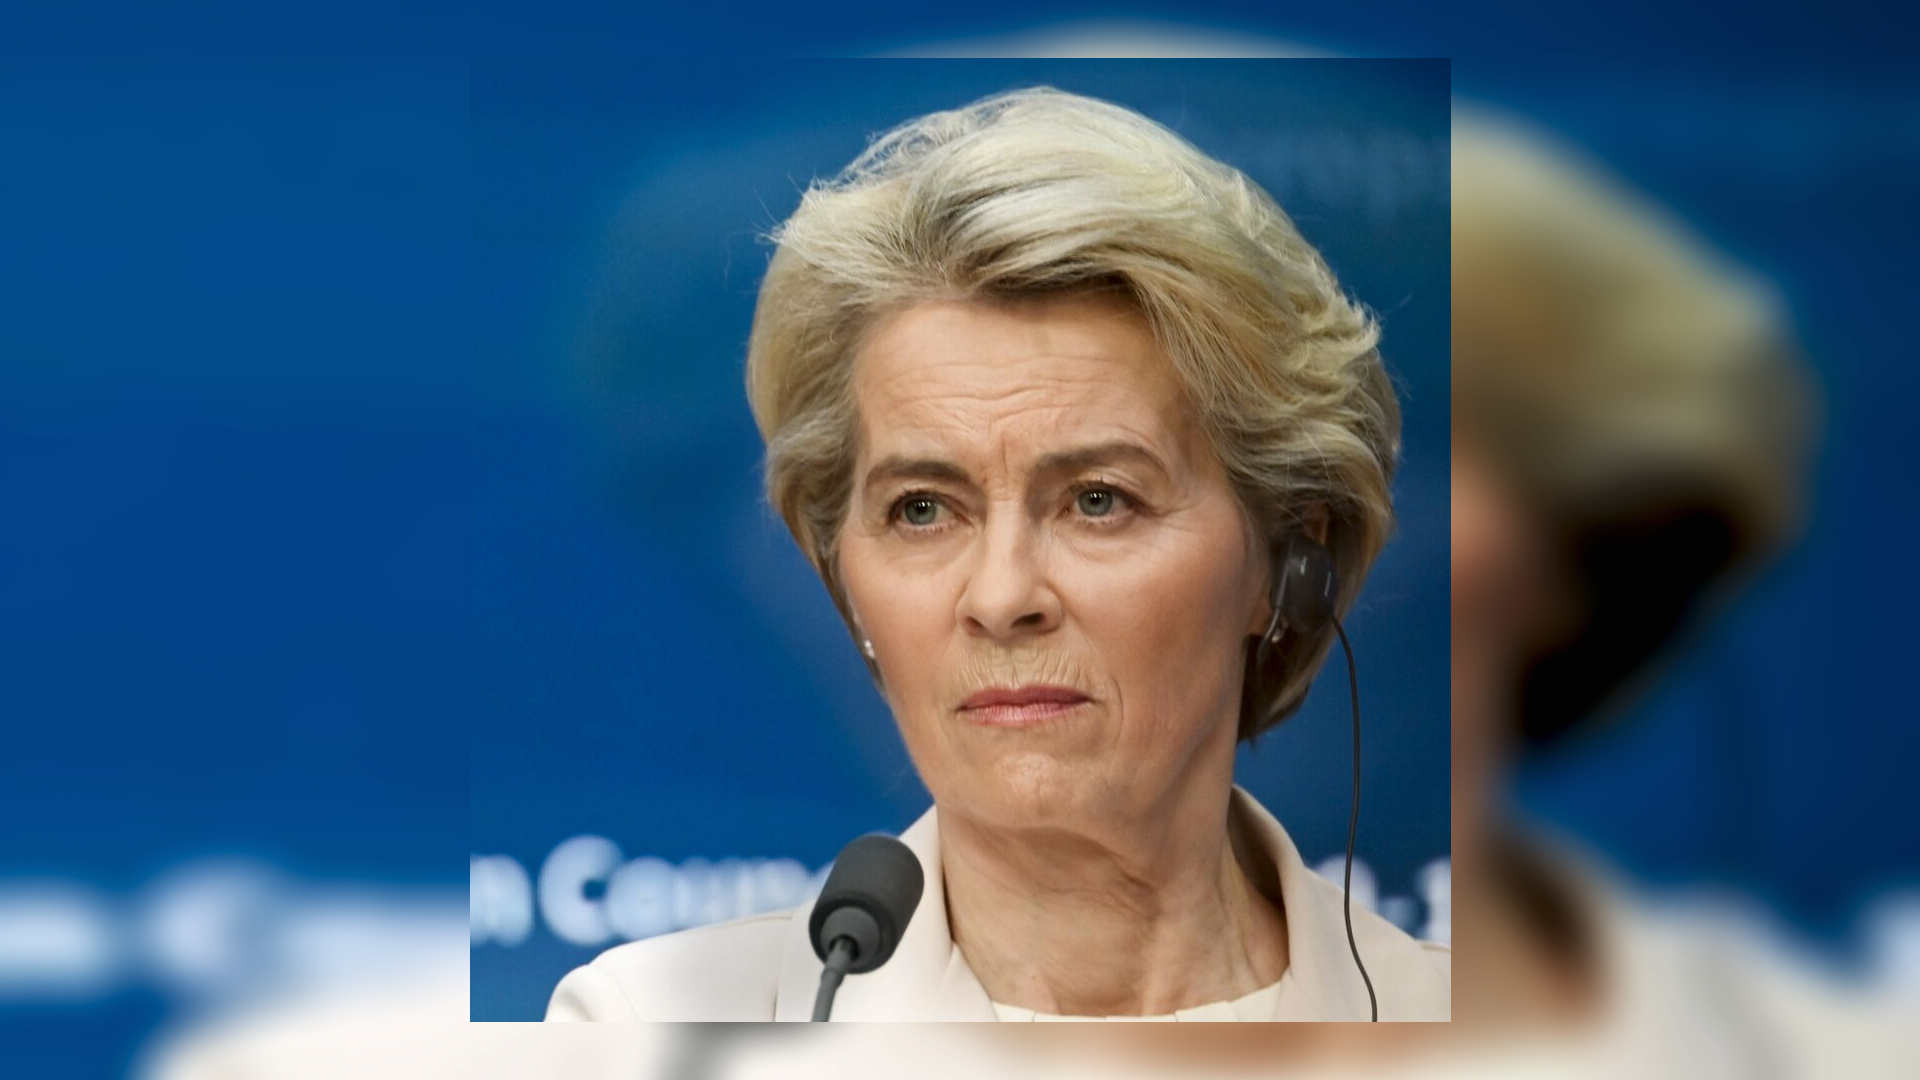
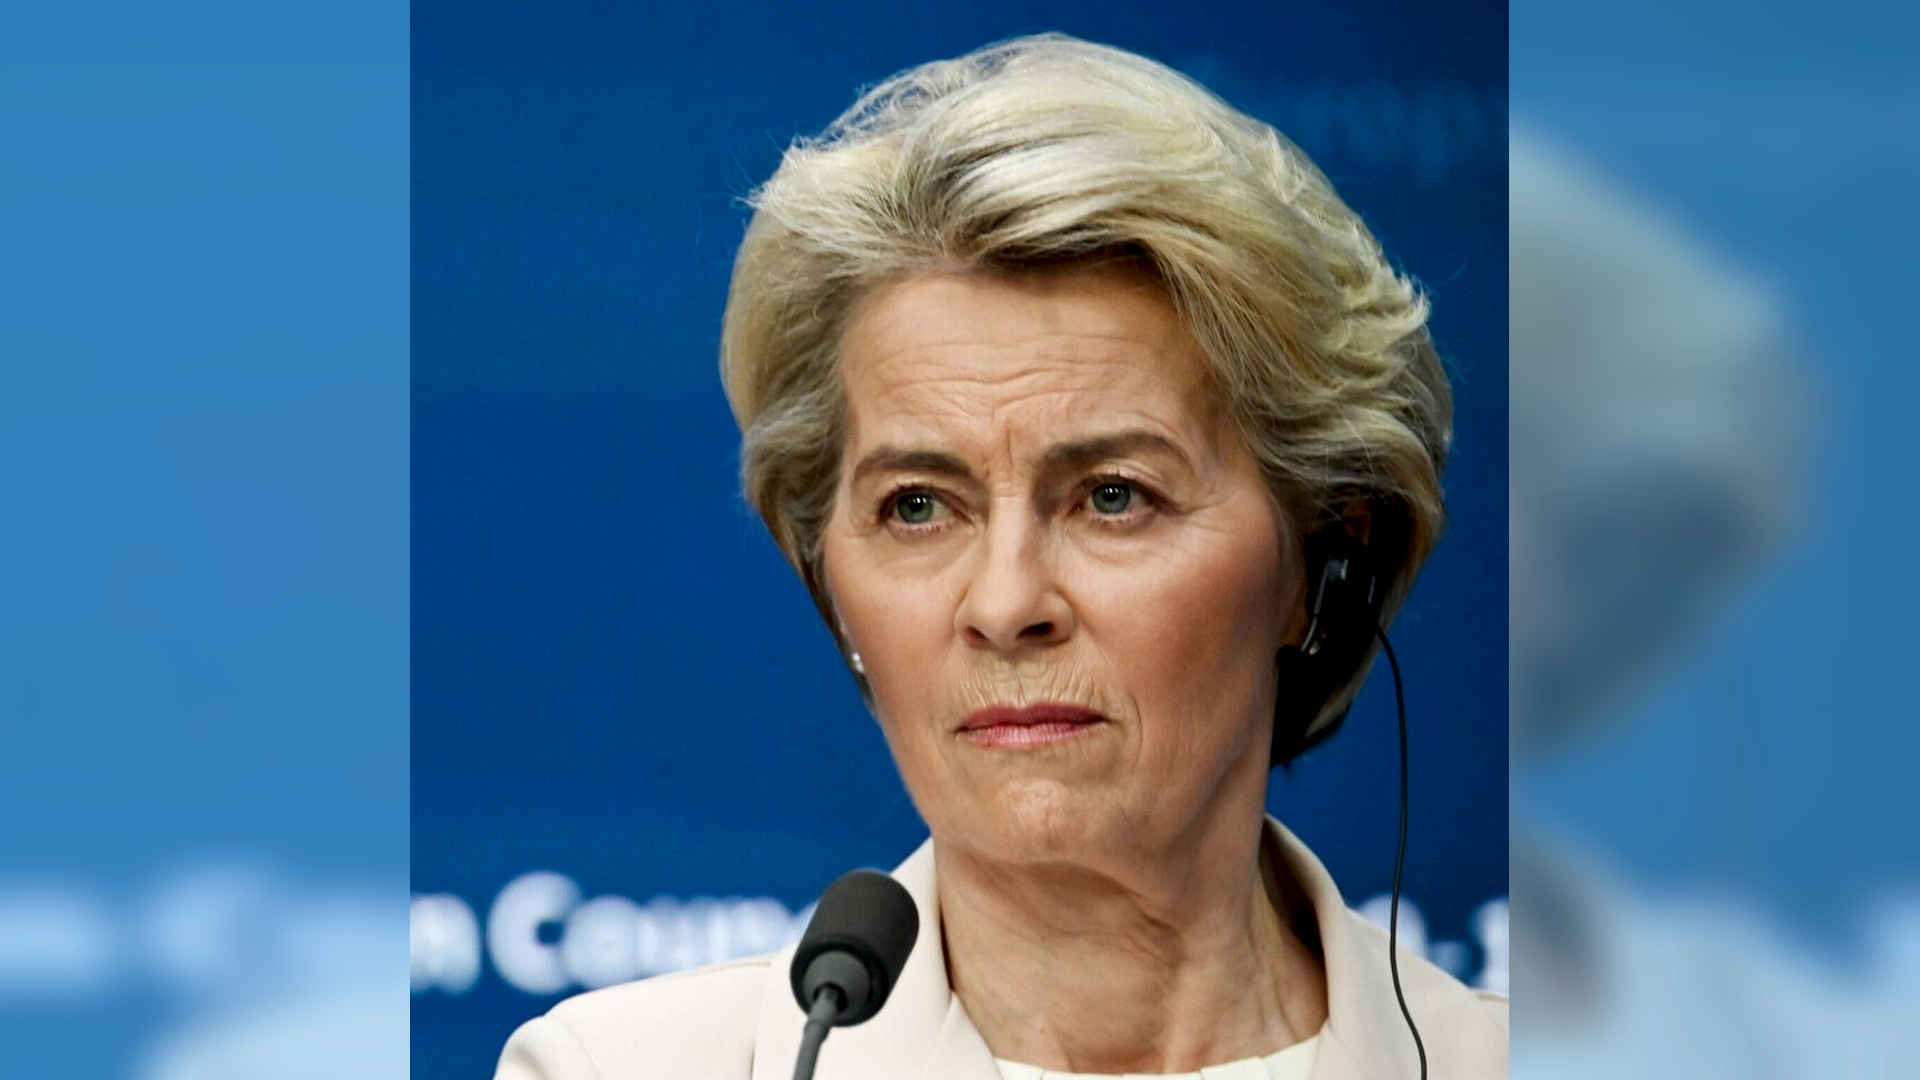
upd

diff --git a/src/services/imagePrcessing.js b/src/services/imagePrcessing.js
@@ -12,48 +12,22 @@ async function checkFileExists(filePath) {
     }
 }
 
-async function resizeImage(pathFile, outputFilePath, width, height) {
+export async function resizeImage(inputArrBufOrPath, outputFilePath, width = null, height = null) {
     try {
-        const inputImage = sharp(pathFile);
-        const inputImageBlur = sharp(await inputImage.toBuffer());
-        const resizeImageBlur = inputImageBlur.resize({
-            width, height, fit: 'fill'// fit: sharp.fit.cover, // Заполнение с обрезкой
-        });
+        let image = sharp(inputArrBufOrPath).toFormat('png');
 
-        const obj = await inputImage.metadata();
-        console.log(obj)
-        const {width: w, height: h} = obj
+        if (width) {
+            const resizeImageBlur = image.clone().resize({width, height, fit: 'fill'});
+            const imgBackBlur = await resizeImageBlur.blur(25).toBuffer();
 
-        const mask = await sharp({
-            create: {
-                width: w,
-                height: h,
-                channels: 4,
-                background: {r: 0, g: 0, b: 0, alpha: .8}
-            }
-        }).png().blur(80).toBuffer();
+            const foregroundImage = await image
+                .resize({width, height, fit: 'contain', background: {r: 128, g: 200, b: 255, alpha: 0.5}})
+                .toBuffer();
 
-
-        const imgBackBlur = await resizeImageBlur.blur(25).toBuffer();
-
-        // Создать основное изображение с учётом "contain"
-        // const foregroundImage = await inputImage
-        //     .resize({
-        //         width, height, fit: 'contain', background: {r: 128, g: 200, b: 255, alpha: 0.5}, // Прозрачный фон
-        //     })
-        //     .toBuffer();
-
-        const foregroundImage2 = await sharp(await inputImage.toBuffer())
-            .composite([{
-                input: mask,
-                blend: 'dest-in'
-            }])/*.toFile(outputFilePath)*/.toBuffer();
-
-
-        // Скомбинировать изображения
-        await sharp(imgBackBlur)
-            .composite([{input: foregroundImage2, gravity: 'center'}]).normalize().sharpen()
-            .toFile(outputFilePath);
+            image = await sharp(imgBackBlur)
+                .composite([{input: foregroundImage, gravity: 'center'}]).normalize().sharpen()
+        }
+        image.toFile(outputFilePath);
 
         console.log('Изображение успешно обработано и сохранено в', outputFilePath);
     } catch (error) {
@@ -61,23 +35,7 @@ async function resizeImage(pathFile, outputFilePath, width, height) {
     }
 }
 
-
-const toPng = async ({inputPath, outputPath, arrayBuffer}) => {
-    try {
-        arrayBuffer = inputPath ? await fsPromises.readFile(inputPath) : arrayBuffer;
-
-        const info = await sharp(arrayBuffer)
-            .toFormat('png') // Указываем формат вывода
-            .toFile(outputPath);
-
-        console.log('Конвертация завершена:', info);
-    } catch (err) {
-        console.error('Ошибка при конвертации:', err);
-        throw err;
-    }
-};
-
-// await resizeImage('img.png', 'out.png', 1920, 1080)
+await resizeImage('img.png', 'out.png', 1920, 1080)
 
 async function createVignetteOverlay(pathFile, outputFilePath, width, height) {
     // Размеры изображения (должны совпадать с исходным)
@@ -147,4 +105,4 @@ async function createVignetteOverlay(pathFile, outputFilePath, width, height) {
     }
 }
 
-await createVignetteOverlay('img.png', 'out.png', 1920, 1080)
+// await createVignetteOverlay('img.png', 'out.png', 1920, 1080)

diff --git a/src/parser.js b/src/parser.js
@@ -9,6 +9,7 @@ import sharp from "sharp";
 import {config} from "dotenv";
 import {chromium} from "playwright";
 import {saveVideo} from "playwright-video";
+import {resizeImage} from "./services/imagePrcessing.js";
 
 const {parsed: {IMG_COOKIE, IMG_XBROWS_VALID, IMG_XCLIENT}} = config();
 
@@ -146,18 +147,24 @@ export const getDocument = (html) => {
  * @param ext
  * @param max
  */
-export async function downloadImages({arrUrl, outputDir, pfx = 'img-', ext = '.jfif', count = 10, timeout = 3000, isResize = true}) {
+export async function downloadImages({
+                                         arrUrl,
+                                         outputDir,
+                                         pfx = 'img-',
+                                         ext = '.jfif',
+                                         count = 10,
+                                         timeout = 3000,
+                                         width,
+                                         height
+                                     }) {
     let counter = 0.01
     let max = arrUrl.length;
 
     // Создаем директорию, если она не существует
-    if (!fs.existsSync(outputDir)) {
-        fs.mkdirSync(outputDir, {recursive: true});
-    }
+    if (!fs.existsSync(outputDir)) fs.mkdirSync(outputDir, {recursive: true});
 
     // Загружаем изображения по каждому URL
     const arrOutNames = [], arrPromiseTask = [];
-    const cv = new CreateVideo({dir_content: outputDir})
 
     const headers = {
         'Referer': 'http://localhost:5173/',
@@ -179,12 +186,11 @@ export async function downloadImages({arrUrl, outputDir, pfx = 'img-', ext = '.j
         'user-agent': 'Mozilla/5.0 (Windows NT 10.0; Win64; x64) AppleWebKit/537.36 (KHTML, like Gecko) Chrome/131.0.0.0 Safari/537.36',
     };
 
-
     async function loadAndSaveImage(url, outPath) {
         try {
             const {data} = await axios.get(url, {headers, responseType: 'arraybuffer', timeout});
             console.log(`Получено: ${url}`);
-            await cv.toPng({arrayBuffer: data, outputPath: outPath})
+            await resizeImage(data, outputDir + outPath, width, height);
         } catch (error) {
             console.error(`Ошибка при загрузке ${url}: ${error.message}`);
         } finally {
@@ -199,7 +205,6 @@ export async function downloadImages({arrUrl, outputDir, pfx = 'img-', ext = '.j
         if (i >= count) break;
 
         const url = arrUrl[i];
-        // let outPath = pfx + i + ext;
         let outPath = pfx + toShortString(cyrb53(url)) + ext;
         arrOutNames.push(outPath)
         arrPromiseTask.push(loadAndSaveImage(url, outPath))
@@ -208,16 +213,7 @@ export async function downloadImages({arrUrl, outputDir, pfx = 'img-', ext = '.j
 
     await Promise.allSettled(arrPromiseTask)
 
-    if (isResize) {
-        const targetWidth = 1920; // Ширина
-        const targetHeight = 1080; // Высота
-        const backgroundColor = {r: 32, g: 32, b: 32, alpha: 0};
-        await cv.packageResizeImage({arrPathImage: arrOutNames, ext: 'png', targetWidth, targetHeight, backgroundColor})
-        // console.log(`Загружено!!!`);
-    }
-
     global?.messageSocket?.send({type: 'progress', data: -1})
-
     return arrOutNames;
 }
 

diff --git a/src/api-v1/images.js b/src/api-v1/images.js
@@ -3,6 +3,7 @@ import express from "express";
 import {renderToBrowser, downloadImages, ImageDownloadProcessor} from "../parser.js";
 import multer from "multer";
 import {fileURLToPath} from "url";
+import general from "./general.js";
 
 const routerImage = express.Router();
 
@@ -25,7 +26,10 @@ routerImage.get('/images', async (req, res) => {
         const arrUrl = (await ip.getArrImage(prompt)).slice(0, max)
         res.status(200).send({arrUrl, id})
         await downloadImages({
-            arrUrl, outputDir: `./public/public/${news.pathSrc}/`, pfx: '', ext: '.png', count: +max, timeout
+            arrUrl,
+            outputDir: global.root + `/public/public/${news.pathSrc}/`, pfx: '', ext: '.png',
+            count: +max, timeout,
+            width: 1920, height: 1080
         })
         global?.messageSocket && global.messageSocket.send({type: 'update-news'})
     } catch (error) {
@@ -41,7 +45,9 @@ routerImage.get('/images-tg', async (req, res) => {
         const arrUrl = (await ip.getArrImage(prompt)).slice(0, max)
         res.status(200).send({arrUrl, id})
         await downloadImages({
-            arrUrl, outputDir: `./public/public/${news.pathSrc}/tg/`, pfx: '', ext: '.png', count: +max, timeout, isResize: false
+            arrUrl,
+            outputDir: `./public/public/${news.pathSrc}/tg/`, pfx: '', ext: '.png',
+            count: +max, timeout
         })
         global?.messageSocket && global.messageSocket.send({type: 'update-news'})
     } catch (error) {

diff --git a/src/index.js b/src/index.js
@@ -29,7 +29,7 @@ global.dbTask = new noSQL('./dbTask.json');
 global.dbTask = new noSQL('./dbTask.json');
 global.dbTB = new noSQL('./dbTB.json');
 global.tgChannelID_1 = TG_CHANNEL_ID;
-global.tgBot = new TelegramChannelBot(BOT_TOKEN, TG_GROUP_STORAGE_ID, TG_GROUP_STORAGE_THREAD_ID, global.dbTB);
+global.tgBot = {};//new TelegramChannelBot(BOT_TOKEN, TG_GROUP_STORAGE_ID, TG_GROUP_STORAGE_THREAD_ID, global.dbTB);
 global.listNewsSrc = {
     // TG: new NewsUpdater({host: 'https://www.theguardian.com', dbNews, ...theGuardian}),
     // RT: new NewsUpdater({host: 'https://russian.rt.com', dbNews, ...russiaToday}),

diff --git a/src/api-v1/news.js b/src/api-v1/news.js
@@ -5,7 +5,7 @@ import {buildAllNews, buildAnNews} from "../video.js";
 import {getListNews, getListTask, renderToBrowser} from "../parser.js";
 import axios from "axios";
 import routerImage from "./images.js";
-import {clearImage} from "../tst/cleaner.js";
+// import {clearImage} from "../tst/cleaner.js";
 
 const routerNews = express.Router();
 
